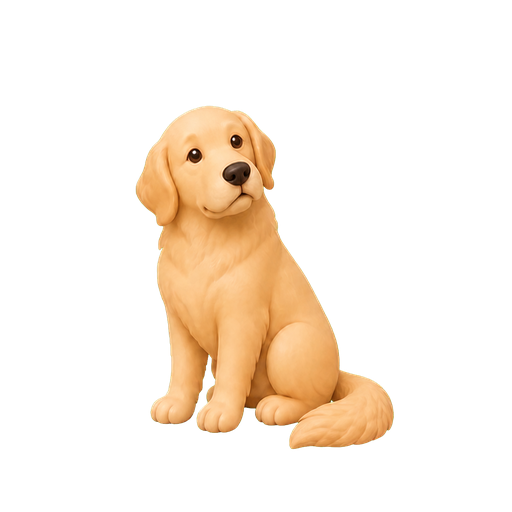
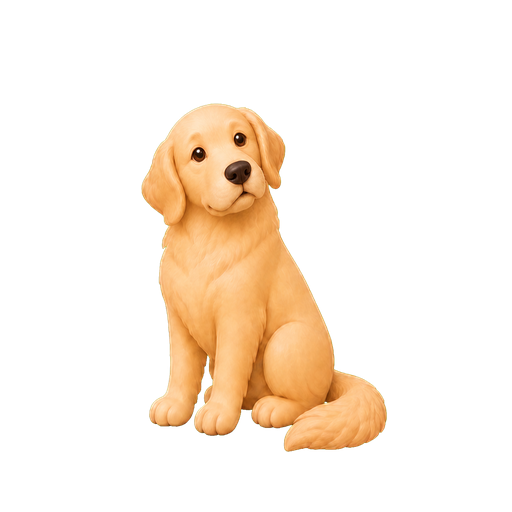
refine golden and greyhound card motion

diff --git a/src/components/category-explorer.module.css b/src/components/category-explorer.module.css
@@ -13,9 +13,11 @@
 .quickIcon [data-motion-layer="independent-base"] { background-image: url('/illustrations/ui/lifestyle-motion/independent-base.png'); background-position: center; background-size: 100% 100%; }
 .quickIcon [data-motion-layer="independent-yawn-mid"] { background-image: url('/illustrations/ui/lifestyle-motion/independent-yawn-mid.png'); background-position: center; background-size: 100% 100%; opacity: 0; }
 .quickIcon [data-motion-layer="independent-yawn-full"] { background-image: url('/illustrations/ui/lifestyle-motion/independent-yawn-full.png'); background-position: center; background-size: 100% 100%; opacity: 0; }
-.quickIcon [data-motion-layer="grooming-dog"] { background-image: url('/illustrations/ui/lifestyle-motion/grooming-dog.webp'); background-position: center; background-size: 100% 100%; transform-origin: 50% 78%; }
+.quickIcon [data-motion-layer="grooming-dog-open"] { background-image: url('/illustrations/ui/lifestyle-motion/grooming-dog-open.webp'); background-position: center; background-size: 100% 100%; transform-origin: 50% 78%; }
+.quickIcon [data-motion-layer="grooming-dog-closed"] { background-image: url('/illustrations/ui/lifestyle-motion/grooming-dog.webp'); background-position: center; background-size: 100% 100%; transform-origin: 50% 78%; opacity: 0; }
 .quickIcon [data-motion-layer="grooming-hand"] { background-image: url('/illustrations/ui/lifestyle-motion/grooming-hand.webp'); background-position: center; background-size: 100% 100%; transform-origin: 68% 48%; }
 .quickIcon [data-motion-layer="unfamiliar-base"] { background-image: url('/illustrations/ui/lifestyle-motion/unfamiliar-base.png'); background-position: center; background-size: 100% 100%; }
+.quickIcon [data-motion-layer="unfamiliar-tilt"] { background-image: url('/illustrations/ui/lifestyle-motion/unfamiliar-tilt.png'); background-position: center; background-size: 100% 100%; opacity: 0; }
 .quickIcon [data-motion-layer="unfamiliar-question"] { background-image: url('/illustrations/ui/lifestyle-motion/unfamiliar-question.png'); background-position: center; background-size: 100% 100%; transform-origin: 68% 16%; }
 .quickStartCard[data-motion-ready="true"] .quickIcon [data-motion-layer="calm-base"] { animation: calm-breathe-once 2.8s cubic-bezier(.45, 0, .55, 1) 1 both; }
 .quickStartCard[data-motion-ready="true"] .quickIcon [data-motion-layer="calm-z"] { animation: calm-z-once 2.8s ease-in-out 1 both; }
@@ -24,9 +26,12 @@
 .quickStartCard[data-motion-ready="true"] .quickIcon [data-motion-layer="social-hand"] { animation: social-hand-once 3.8s cubic-bezier(.42, 0, .25, 1) 1 both; }
 .quickStartCard[data-motion-ready="true"] .quickIcon [data-motion-layer="independent-yawn-mid"] { animation: independent-yawn-mid-once 4.8s ease-in-out 1 both; }
 .quickStartCard[data-motion-ready="true"] .quickIcon [data-motion-layer="independent-yawn-full"] { animation: independent-yawn-full-once 4.8s ease-in-out 1 both; }
-.quickStartCard[data-motion-ready="true"] .quickIcon [data-motion-layer="grooming-dog"] { animation: grooming-breathe-once 4.6s ease-in-out 1 both; }
+.quickStartCard[data-motion-ready="true"] .quickIcon [data-motion-layer="grooming-dog-open"] { animation: grooming-breathe-once 4.6s ease-in-out 1 both, grooming-eyes-open-once 4.6s linear 1 both; }
+.quickStartCard[data-motion-ready="true"] .quickIcon [data-motion-layer="grooming-dog-closed"] { animation: grooming-breathe-once 4.6s ease-in-out 1 both, grooming-eyes-closed-once 4.6s linear 1 both; }
 .quickStartCard[data-motion-ready="true"] .quickIcon [data-motion-layer="grooming-hand"] { animation: grooming-stroke-once 4.6s cubic-bezier(.42, 0, .25, 1) 1 both; }
-.quickStartCard[data-motion-ready="true"] .quickIcon [data-motion-layer="unfamiliar-question"] { animation: unfamiliar-question-once 2s ease-in-out 1 both; }
+.quickStartCard[data-motion-ready="true"] .quickIcon [data-motion-layer="unfamiliar-base"] { animation: unfamiliar-base-once 4.6s ease-in-out 1 both; }
+.quickStartCard[data-motion-ready="true"] .quickIcon [data-motion-layer="unfamiliar-tilt"] { animation: unfamiliar-tilt-once 4.6s ease-in-out 1 both; }
+.quickStartCard[data-motion-ready="true"] .quickIcon [data-motion-layer="unfamiliar-question"] { animation: unfamiliar-question-once 4.6s ease-in-out 1 both; }
 .quickStartCard:hover { transform: translateY(-2px); border-color: var(--moss); box-shadow: 0 10px 24px rgb(42 52 46 / 8%); }
 .quickStartCard:focus-visible { outline: 3px solid var(--focus); outline-offset: 3px; }
 .quickStartCard strong { max-width: 15ch; font-size: 1.04rem; line-height: 1.35; }
@@ -55,9 +60,12 @@
   .quickStartCard:hover .quickIcon [data-motion-layer="social-hand"] { animation: social-hand-loop 3.8s cubic-bezier(.42, 0, .25, 1) infinite; }
   .quickStartCard:hover .quickIcon [data-motion-layer="independent-yawn-mid"] { animation: independent-yawn-mid-loop 4.8s ease-in-out infinite; }
   .quickStartCard:hover .quickIcon [data-motion-layer="independent-yawn-full"] { animation: independent-yawn-full-loop 4.8s ease-in-out infinite; }
-  .quickStartCard:hover .quickIcon [data-motion-layer="grooming-dog"] { animation: grooming-breathe-loop 4.6s ease-in-out infinite; }
+  .quickStartCard:hover .quickIcon [data-motion-layer="grooming-dog-open"] { animation: grooming-breathe-loop 4.6s ease-in-out infinite, grooming-eyes-open-loop 4.6s linear infinite; }
+  .quickStartCard:hover .quickIcon [data-motion-layer="grooming-dog-closed"] { animation: grooming-breathe-loop 4.6s ease-in-out infinite, grooming-eyes-closed-loop 4.6s linear infinite; }
   .quickStartCard:hover .quickIcon [data-motion-layer="grooming-hand"] { animation: grooming-stroke-loop 4.6s cubic-bezier(.42, 0, .25, 1) infinite; }
-  .quickStartCard:hover .quickIcon [data-motion-layer="unfamiliar-question"] { animation: unfamiliar-question-loop 2s ease-in-out infinite; }
+  .quickStartCard:hover .quickIcon [data-motion-layer="unfamiliar-base"] { animation: unfamiliar-base-loop 4.6s ease-in-out infinite; }
+  .quickStartCard:hover .quickIcon [data-motion-layer="unfamiliar-tilt"] { animation: unfamiliar-tilt-loop 4.6s ease-in-out infinite; }
+  .quickStartCard:hover .quickIcon [data-motion-layer="unfamiliar-question"] { animation: unfamiliar-question-loop 4.6s ease-in-out infinite; }
 }
 .quickStartCard:focus-visible .quickIcon [data-motion-layer="calm-base"] { animation: calm-breathe-loop 2.8s cubic-bezier(.45, 0, .55, 1) infinite; }
 .quickStartCard:focus-visible .quickIcon [data-motion-layer="calm-z"] { animation: calm-z-loop 2.8s ease-in-out infinite; }
@@ -66,9 +74,12 @@
 .quickStartCard:focus-visible .quickIcon [data-motion-layer="social-hand"] { animation: social-hand-loop 3.8s cubic-bezier(.42, 0, .25, 1) infinite; }
 .quickStartCard:focus-visible .quickIcon [data-motion-layer="independent-yawn-mid"] { animation: independent-yawn-mid-loop 4.8s ease-in-out infinite; }
 .quickStartCard:focus-visible .quickIcon [data-motion-layer="independent-yawn-full"] { animation: independent-yawn-full-loop 4.8s ease-in-out infinite; }
-.quickStartCard:focus-visible .quickIcon [data-motion-layer="grooming-dog"] { animation: grooming-breathe-loop 4.6s ease-in-out infinite; }
+.quickStartCard:focus-visible .quickIcon [data-motion-layer="grooming-dog-open"] { animation: grooming-breathe-loop 4.6s ease-in-out infinite, grooming-eyes-open-loop 4.6s linear infinite; }
+.quickStartCard:focus-visible .quickIcon [data-motion-layer="grooming-dog-closed"] { animation: grooming-breathe-loop 4.6s ease-in-out infinite, grooming-eyes-closed-loop 4.6s linear infinite; }
 .quickStartCard:focus-visible .quickIcon [data-motion-layer="grooming-hand"] { animation: grooming-stroke-loop 4.6s cubic-bezier(.42, 0, .25, 1) infinite; }
-.quickStartCard:focus-visible .quickIcon [data-motion-layer="unfamiliar-question"] { animation: unfamiliar-question-loop 2s ease-in-out infinite; }
+.quickStartCard:focus-visible .quickIcon [data-motion-layer="unfamiliar-base"] { animation: unfamiliar-base-loop 4.6s ease-in-out infinite; }
+.quickStartCard:focus-visible .quickIcon [data-motion-layer="unfamiliar-tilt"] { animation: unfamiliar-tilt-loop 4.6s ease-in-out infinite; }
+.quickStartCard:focus-visible .quickIcon [data-motion-layer="unfamiliar-question"] { animation: unfamiliar-question-loop 4.6s ease-in-out infinite; }
 @keyframes calm-breathe-once {
   0%, 100% { transform: scaleY(1); }
   50% { transform: scaleY(1.008); }
@@ -139,6 +150,22 @@
   0%, 100% { transform: scaleY(1); }
   48% { transform: scaleY(1.006); }
 }
+@keyframes grooming-eyes-open-once {
+  0%, 24% { opacity: 1; }
+  48%, 100% { opacity: 0; }
+}
+@keyframes grooming-eyes-closed-once {
+  0%, 24% { opacity: 0; }
+  48%, 100% { opacity: 1; }
+}
+@keyframes grooming-eyes-open-loop {
+  0%, 22%, 100% { opacity: 1; }
+  46%, 76% { opacity: 0; }
+}
+@keyframes grooming-eyes-closed-loop {
+  0%, 22%, 100% { opacity: 0; }
+  46%, 76% { opacity: 1; }
+}
 @keyframes grooming-stroke-once {
   0%, 14%, 100% { transform: translate(10px, 0) rotate(.5deg); }
   58% { transform: translate(-17px, 1px) rotate(-1deg); }
@@ -149,15 +176,31 @@
   58% { transform: translate(-17px, 1px) rotate(-1deg); }
   82% { transform: translate(6px, 0) rotate(.25deg); }
 }
+@keyframes unfamiliar-base-once {
+  0%, 24%, 100% { opacity: 1; }
+  42%, 66% { opacity: 0; }
+}
+@keyframes unfamiliar-tilt-once {
+  0%, 24%, 84%, 100% { opacity: 0; }
+  42%, 66% { opacity: 1; }
+}
+@keyframes unfamiliar-base-loop {
+  0%, 24%, 100% { opacity: 1; }
+  42%, 66% { opacity: 0; }
+}
+@keyframes unfamiliar-tilt-loop {
+  0%, 24%, 84%, 100% { opacity: 0; }
+  42%, 66% { opacity: 1; }
+}
 @keyframes unfamiliar-question-once {
   0%, 100% { opacity: 1; transform: translateY(0) rotate(0); }
-  45% { opacity: .75; transform: translateY(-3px) rotate(4deg); }
-  72% { opacity: 1; transform: translateY(0) rotate(-2deg); }
+  46%, 64% { opacity: .82; transform: translateY(-2px) rotate(3deg); }
+  82% { opacity: 1; transform: translateY(0) rotate(-1deg); }
 }
 @keyframes unfamiliar-question-loop {
   0%, 100% { opacity: 1; transform: translateY(0) rotate(0); }
-  45% { opacity: .75; transform: translateY(-3px) rotate(4deg); }
-  72% { opacity: 1; transform: translateY(0) rotate(-2deg); }
+  46%, 64% { opacity: .82; transform: translateY(-2px) rotate(3deg); }
+  82% { opacity: 1; transform: translateY(0) rotate(-1deg); }
 }
 @media (prefers-reduced-motion: reduce) {
   .quickStartCard { transition: none; }

diff --git a/src/components/category-dog-icon.tsx b/src/components/category-dog-icon.tsx
@@ -26,13 +26,15 @@ export function CategoryDogIcon({ name, className }: { name: CategoryDogIconName
       ) : null}
       {name === "grooming" ? (
         <>
-          <span data-motion-layer="grooming-dog" />
+          <span data-motion-layer="grooming-dog-open" />
+          <span data-motion-layer="grooming-dog-closed" />
           <span data-motion-layer="grooming-hand" />
         </>
       ) : null}
       {name === "unfamiliar" ? (
         <>
           <span data-motion-layer="unfamiliar-base" />
+          <span data-motion-layer="unfamiliar-tilt" />
           <span data-motion-layer="unfamiliar-question" />
         </>
       ) : null}
